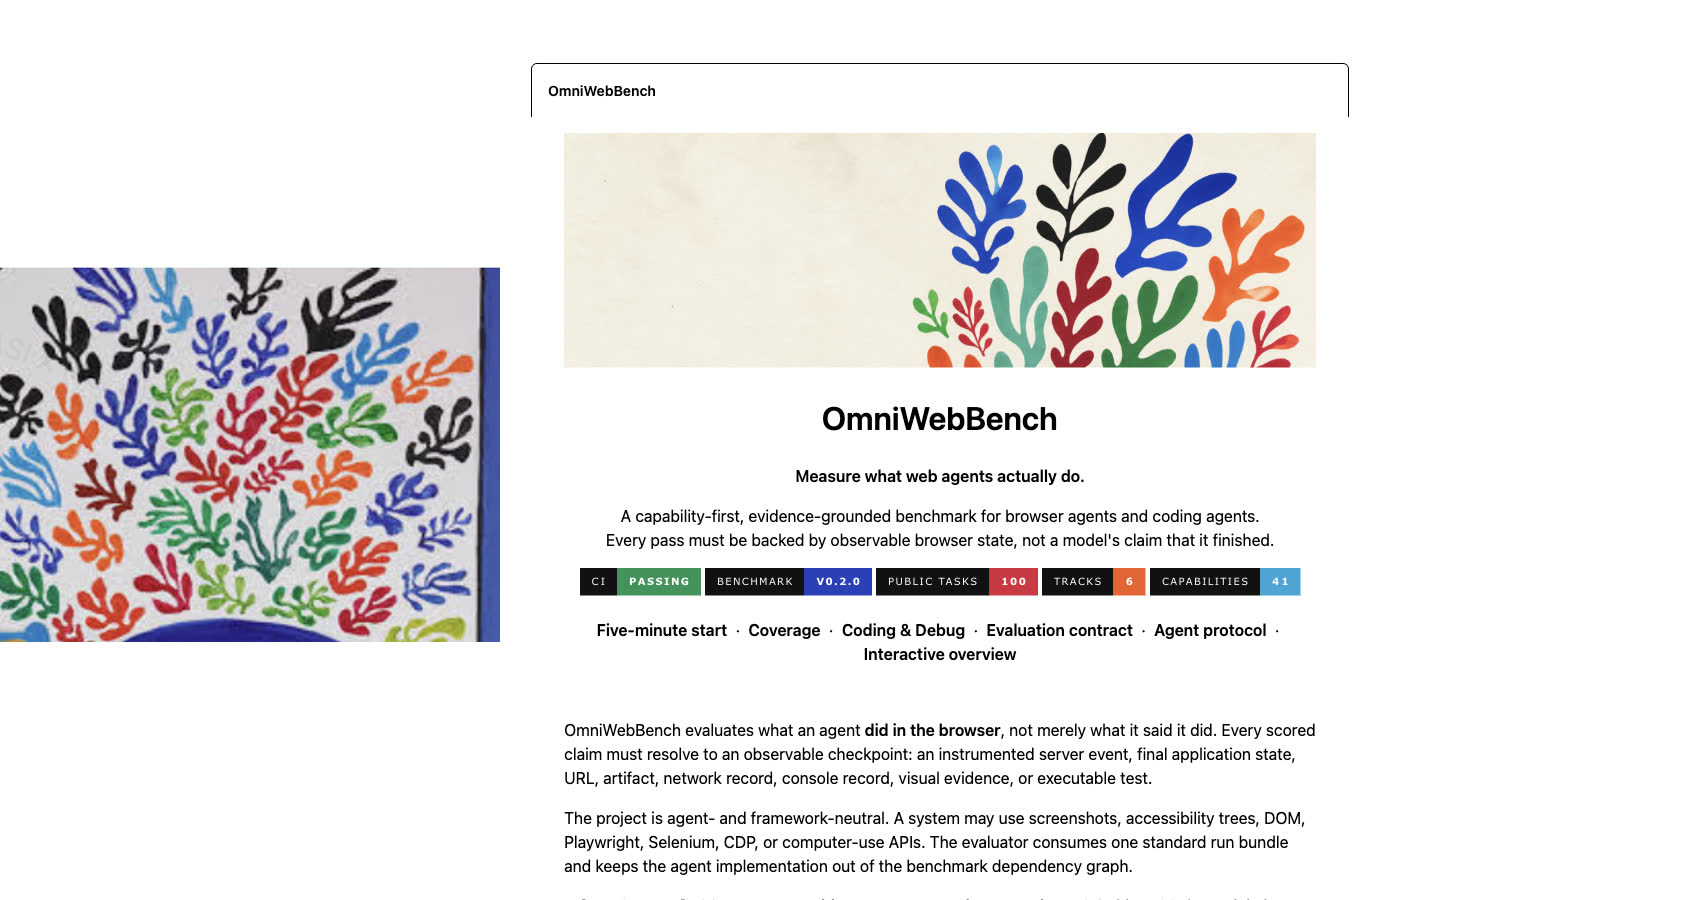
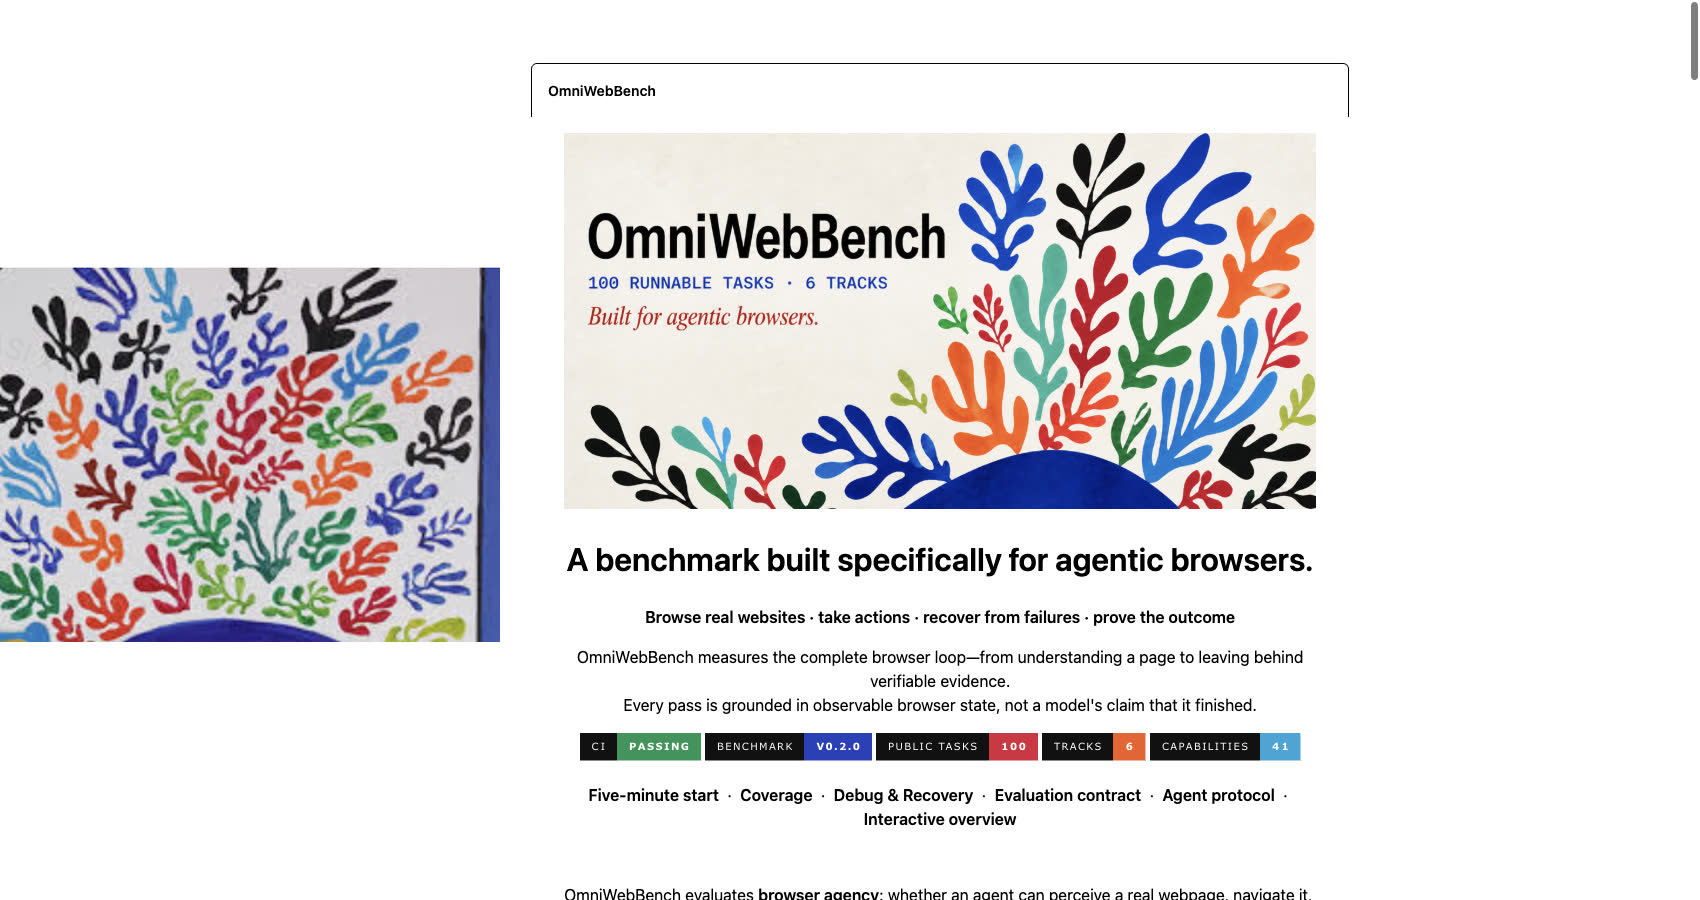
docs: center benchmark narrative on agentic browsers

Changed region(s): [[0.3118, 0.1244, 0.7794, 1.0], [0.9976, 0.0, 1.0, 0.0933]]

diff --git a/README.md b/README.md
@@ -1,14 +1,14 @@
 <p align="center">
-  <img src="assets/hero.png" alt="Matisse-inspired paper-cut botanical artwork for OmniWebBench" width="100%">
+  <img src="assets/social-preview.png" alt="OmniWebBench — 100 runnable agentic-browser tasks across six tracks" width="100%">
 </p>
 
-<h1 align="center">OmniWebBench</h1>
+<h1 align="center">A benchmark built specifically for agentic browsers.</h1>
 
-<p align="center"><strong>Measure what web agents actually do.</strong></p>
+<p align="center"><strong>Browse real websites · take actions · recover from failures · prove the outcome</strong></p>
 
 <p align="center">
-  A capability-first, evidence-grounded benchmark for browser agents and coding agents.<br>
-  Every pass must be backed by observable browser state, not a model's claim that it finished.
+  OmniWebBench measures the complete browser loop—from understanding a page to leaving behind verifiable evidence.<br>
+  Every pass is grounded in observable browser state, not a model's claim that it finished.
 </p>
 
 <p align="center">
@@ -24,7 +24,7 @@
   &nbsp;·&nbsp;
   <a href="#what-it-measures"><strong>Coverage</strong></a>
   &nbsp;·&nbsp;
-  <a href="#coding-agent--browser-debug-track"><strong>Coding &amp; Debug</strong></a>
+  <a href="#browser-debug-and-recovery"><strong>Debug &amp; Recovery</strong></a>
   &nbsp;·&nbsp;
   <a href="#evaluation-contract"><strong>Evaluation contract</strong></a>
   &nbsp;·&nbsp;
@@ -35,9 +35,12 @@
 
 ---
 
-OmniWebBench evaluates what an agent **did in the browser**, not merely what it said it did. Every scored claim must resolve to an observable checkpoint: an instrumented server event, final application state, URL, artifact, network record, console record, visual evidence, or executable test.
+OmniWebBench evaluates **browser agency**: whether an agent can perceive a real webpage, navigate it, operate its controls, manage changing state, recover when the web behaves unexpectedly, and verify the final outcome. Every scored claim must resolve to an observable checkpoint: an instrumented server event, final application state, URL, artifact, network record, console record, visual evidence, or executable test.
 
-The project is agent- and framework-neutral. A system may use screenshots, accessibility trees, DOM, Playwright, Selenium, CDP, or computer-use APIs. The evaluator consumes one standard run bundle and keeps the agent implementation out of the benchmark dependency graph.
+The benchmark is framework-neutral. An agentic browser may use screenshots, accessibility trees, DOM, CDP, Playwright, Selenium, or computer-use APIs. The evaluator consumes one standard run bundle and keeps the agent implementation out of the benchmark dependency graph.
+
+> [!NOTE]
+> **The unit under test is the agentic browser.** OmniWebBench measures its ability to browse, act, recover and verify across web workflows. Research, file handling, safety and browser debugging are capability slices inside that browser loop.
 
 > [!IMPORTANT]
 > **100 means runnable now—not a roadmap number.** v0.2 ships 100 deterministic public development tasks across six tracks, plus schemas, a fixture server, scorer, reports, and governance contract. The original 24-task v0.1 pack remains immutable for regression comparison. `verified` and hidden `test` splits only open after independent audits and baseline calibration.
@@ -57,30 +60,19 @@ The project is agent- and framework-neutral. A system may use screenshots, acces
 > [!WARNING]
 > During evaluation, the agent must not read the event ledger, task source, evaluator implementation, hidden oracle data, or fixture state APIs. Those belong to the evaluator trust boundary.
 
-## Why another benchmark?
+## What OmniWebBench is for
 
-Existing benchmarks answer different, important questions:
+An agentic browser is more than a page-answering model. It must turn intent into reliable action inside a changing web environment. OmniWebBench makes that browser loop measurable:
 
-| Benchmark | Best at | Gap OmniWebBench targets |
-|---|---|---|
-| [WebArena](https://github.com/web-arena-x/webarena) / [WebArena Verified](https://github.com/ServiceNow/webarena-verified) | Reproducible stateful tasks and executable evaluators | Cross-suite capability diagnosis, safety, recovery, evidence and debugging |
-| [VisualWebArena](https://github.com/web-arena-x/visualwebarena) | Visually grounded browser tasks | Modality attribution and fine-grained process failure labels |
-| [BrowserGym](https://github.com/ServiceNow/BrowserGym) / [AgentLab](https://github.com/ServiceNow/AgentLab) | Standardized environments and scalable experimentation | A benchmark contract rather than an agent runtime |
-| [Online-Mind2Web](https://github.com/OSU-NLP-Group/Online-Mind2Web) | Live-web generalization | Deterministic replay, mutation oracles, safety and debugging |
-| [WorkArena](https://github.com/ServiceNow/WorkArena) | Enterprise knowledge work and compositional planning | Broad website primitives and open adapter protocol |
-| [ST-WebAgentBench](https://github.com/segev-shlomov/ST-WebAgentBench) | Completion under safety policy | General capability coverage and web debugging |
-| [SWE-bench](https://github.com/swe-bench/SWE-bench) | Reproducible issue-level software engineering evaluation | Browser-specific state, trajectory and evidence semantics |
+| Browser stage | What the benchmark asks |
+|---|---|
+| Understand | Can the agent ground text, controls, visuals and page structure correctly? |
+| Navigate | Can it move through tabs, frames, pagination, dynamic content and multi-step flows? |
+| Act | Can it enter data, manipulate controls, upload/download files and complete stateful workflows? |
+| Recover | Can it respond to timeouts, transient failures, unsafe instructions and unexpected page states? |
+| Verify | Can it inspect the final URL, application state, artifacts, Console/Network evidence and visual result? |
 
-OmniWebBench borrows the strongest evaluation ideas rather than copying any one task set:
-
-- **From SWE-bench:** immutable instance IDs, pinned environments, fail-to-pass plus pass-to-pass thinking, gold verification, audited subsets, and reproducible submission artifacts.
-- **From WebArena Verified:** executable state evaluators, structured agent responses, task revisions, checksummed evidence, and offline reevaluation.
-- **From WebSuite:** atomic capability probes that explain *why* an end-to-end task failed.
-- **From WorkArena++:** compositional and long-horizon workflows.
-- **From Online-Mind2Web:** live-web validity audits and repeated runs.
-- **From ST-WebAgentBench and WASP:** completion-under-policy, prompt-injection resistance, safe deferral, and explicit unsafe-action metrics.
-
-See [Benchmark landscape](docs/benchmark-landscape.md) for the source-by-source design review.
+The result is both an overall browser-agent score and a diagnostic map of where the browser loop failed. Coverage is reported by capability, track and difficulty rather than being hidden behind one aggregate number.
 
 ## What it measures
 
@@ -109,12 +101,12 @@ Coverage is reported by capability and difficulty—not hidden behind one overal
 | Stateful mutation and confirmation | 12 |
 | Safety, injection resistance and recovery | 15 |
 | Files, artifacts and structured data | 10 |
-| Coding agent, browser debugging and visual validation | 20 |
+| Browser debugging, recovery and visual validation | 20 |
 | **Total** | **100** |
 
-## Coding Agent + Browser Debug track
+## Browser Debug and recovery
 
-This is the dedicated track for coding agents that must **search the web, inspect a live page, diagnose browser-visible failures, change code or configuration, and prove the fix in the browser**. It is intentionally separate from ordinary click-completion tasks.
+This 20-task capability slice asks an agentic browser to **inspect a live page, diagnose browser-visible failures, recover or apply an allowed repair, and prove the result in the browser**. Debugging is one part of the browser loop—not the benchmark's overall identity.
 
 | Slice | Task suffixes | What the Agent must demonstrate |
 |---|---|---|
@@ -128,7 +120,7 @@ All suffixes use the `owb-dev-` prefix.
 > [!IMPORTANT]
 > A plausible code snippet is not a pass. Debug tasks require three independently checkable outputs: **root cause**, **decisive browser evidence**, and **validated result after rerun**.
 
-The track evaluates whether a coding agent can close the loop:
+The track evaluates whether an agentic browser can close the loop:
 
 ```text
 Open the real page
@@ -143,7 +135,7 @@ Open the real page
 Typical signals include HTTP 403/429 responses, CSP failures, stale caches, WebSocket upgrade failures, runtime exceptions, responsive-layout regressions and missing post-patch validation events.
 
 > [!TIP]
-> For an art-platform coding agent, use this track together with open research and visual-grounding tasks. That combination tests the complete workflow: find a suitable reference or repository, understand the page, build or repair the experience, and visually verify the result.
+> For agentic browsers embedded in creative or development products, combine this slice with open research and visual-grounding tasks. That tests the complete browser workflow: find a suitable reference, understand the page, act on the experience, and visually verify the result.
 
 ## Five-minute start
 
@@ -318,7 +310,7 @@ Leaderboard rows will carry one of three visible trust levels:
 2. `reproducible` — code, config, raw run bundle and environment digest are public and independently rerunnable.
 3. `official_verified` — executed or audited by benchmark maintainers on the frozen test split.
 
-Only `official_verified` rows are eligible for the primary leaderboard. This follows the spirit of SWE-bench Verified: quality and reproducibility outrank raw task count.
+Only `official_verified` rows are eligible for the primary leaderboard. Quality and reproducibility outrank raw task count.
 
 ## Repository map
 

diff --git a/design-qa.md b/design-qa.md
@@ -9,12 +9,12 @@
 **Rendered implementation**
 
 - Top-of-README screenshot: `docs/qa/readme-top.jpg`.
-- Coding/Debug focused screenshot: `docs/qa/readme-debug.jpg`.
+- Browser Debug focused screenshot: `docs/qa/readme-debug.jpg`.
 - Live GitHub top screenshot: `docs/qa/readme-live-top.jpg`.
 - Live GitHub Debug screenshot: `docs/qa/readme-live-debug.jpg`.
 - CSS viewport and screenshot pixels: 1200 × 900, device scale factor 1.
-- State: GitHub-style light-theme README rendering, top state and Coding Agent + Browser Debug section.
-- Browser recording: `/Users/xufan/.config/browser-harness/agent-workspace/recordings/omniwebbench-readme-final-qa`.
+- State: GitHub-style light-theme README rendering, agentic-browser positioning state and Browser Debug section.
+- Browser recording: `/Users/xufan/.config/browser-harness/agent-workspace/recordings/omniwebbench-agentic-browser-final-local`.
 
 **Full-view comparison evidence**
 
@@ -38,31 +38,34 @@
 - Fonts and typography: GitHub's native system stack provides a clear repository-document hierarchy. The art reference is translated through imagery instead of forcing a decorative font into long technical copy.
 - Spacing and layout rhythm: hero, centered identity block, badge row, navigation, overview tables and long-form sections have distinct vertical groups. No desktop horizontal overflow was measured.
 - Colors and visual tokens: badges reuse ultramarine, cyan, red, orange and green from the source; black label cells maintain strong contrast.
-- Image quality and asset fidelity: `assets/hero.png` is a 2172 × 678 real raster crop; `assets/matisse-divider.png` is 1800 × 233; both load at full natural width with no stretching or placeholder substitution. `assets/social-preview.png` is prepared at GitHub's 1280 × 640 social-card size.
-- Copy and content: the README clearly separates the current 100 runnable public tasks from the 1,000-task roadmap, explains six run steps, labels the evaluator trust boundary, and gives Coding Agents an explicit observe/diagnose/patch/rerun/verify contract.
+- Image quality and asset fidelity: the primary `assets/social-preview.png` is a 1280 × 640 real raster asset with the embedded positioning line “Built for agentic browsers.” `assets/matisse-divider.png` is 1800 × 233. Both load at full natural width with no stretching or placeholder substitution.
+- Copy and content: the first screen states that OmniWebBench is built specifically for agentic browsers. It defines the browser loop as understand, navigate, act, recover and verify; benchmark-to-benchmark comparisons are absent from the repository homepage. The README also separates the current 100 runnable tasks from the roadmap, explains six run steps, labels the evaluator trust boundary, and presents Debug as one browser capability slice.
 - Accessibility: all decorative images have descriptive alt text; headings, links, tables, code blocks and disclosure elements use GitHub-native semantics. Badge colors are paired with text labels rather than color-only meaning.
 
 **Interaction and load checks**
 
-- 59 links rendered.
+- 49 links rendered.
 - 7 tables and 2 disclosure sections rendered.
 - All 7 visible image resources completed with non-zero natural width.
 - Desktop document overflow: 0 px.
 - No page or asset-load errors were observed during the final browser recording.
-- Live repository check: hero natural width 2172 px, README heading present, Debug section present, Five-minute start present, and 5 native GitHub alerts rendered.
+- Local narrative check: primary image natural width 1280 px, positioning heading present, comparison-name scan clean, Browser Debug section present, Five-minute start present, and document overflow 0 px.
 
 **Comparison history**
 
 - Initial focused capture: Debug task IDs wrapped awkwardly at every hyphen in the narrow table column.
 - Fix: changed the column to short numeric suffixes and added one explicit `owb-dev-` prefix note below the table.
 - Post-fix evidence: `docs/qa/readme-debug.jpg`; task ranges now stay intact and scan cleanly.
+- Narrative revision: the earlier first screen described both browser agents and coding agents and included a comparison landscape.
+- Fix: centered the agentic-browser positioning, embedded “Built for agentic browsers.” into the hero, removed homepage comparisons, introduced the five-stage browser loop, and reframed Debug as one capability slice.
+- Post-fix evidence: `docs/qa/readme-top.jpg` and `docs/qa/readme-source-comparison.jpg`.
 
 **Implementation checklist**
 
 - [x] Replace the generic 3D-tech repository hero with Matisse-inspired raster artwork.
 - [x] Add matching badges, top navigation and repository-at-a-glance summaries.
 - [x] Expand installation, fixture, adapter, run-bundle, scoring and development-loop instructions.
-- [x] Add the dedicated 20-task Coding Agent + Browser Debug section.
+- [x] Add the dedicated 20-task Browser Debug and recovery section without redefining the benchmark as a coding benchmark.
 - [x] Prepare a 1280 × 640 repository social-preview asset.
 - [x] Verify GitHub-style rendering, images, links, tables and desktop overflow.
 

diff --git a/assets/README.md b/assets/README.md
@@ -1,19 +1,23 @@
 # Brand assets
 
-These assets were generated for OmniWebBench with OpenAI's built-in image-generation tool on 2026-08-11. A supplied visual reference was used only to identify high-level qualities—cool-white light, rounded modular geometry, generous negative space and restrained typography. No source logo, product mark or navigation layout was copied.
+These assets were generated for OmniWebBench with OpenAI's built-in image-generation tool on 2026-08-11. A supplied visual reference was used to identify high-level qualities: warm paper texture, hand-cut botanical silhouettes, asymmetrical density, generous negative space and a vivid ultramarine/red/orange/green/black palette. No source logo or product mark was copied.
 
 ## Files and final prompts
 
 ### `hero.png`
 
-Ultra-wide GitHub README hero for **OmniWebBench** with the exact line “Measure what web agents actually do.” Cold-white frosted browser tiles recede around an obsidian measurement core; graphite and small cyan accents; premium minimal research-lab identity; no external marks, people or watermark.
+Ultra-wide, text-free GitHub README banner with Matisse-inspired cut-paper botanical forms concentrated on the right and a warm paper field on the left. This remains available as a secondary decorative asset.
 
 ### `social-preview.png`
 
-GitHub social card with the exact title **OmniWebBench** and line “A capability-first benchmark for web agents.” An ordered field of translucent browser modules frames a black measurement sphere with restrained cyan guides; readable under social-card cropping; no external marks or watermark.
+Primary GitHub README and social card with the exact title **OmniWebBench**, the line “100 RUNNABLE TASKS · 6 TRACKS”, and the positioning statement “Built for agentic browsers.” The typography sits in a quiet paper field while cut-paper botanical forms frame the right and lower edges.
+
+### `matisse-divider.png`
+
+Panoramic cut-paper botanical divider using the same warm paper texture and color system as the primary repository artwork.
 
 ### `evidence-chain.png`
 
-Dark panoramic documentation banner showing five frosted browser slabs linked through a black core by cyan evidence lines; graphite, smoke glass and off-white; no text, logos, people or watermark.
+Legacy dark panoramic evidence-chain banner retained for release-history compatibility. It is no longer used on the repository homepage.
 
 The prompts were executed in built-in image-generation mode. Final images were inspected for spelling, composition, unwanted logos and visual consistency before being added to the project.
